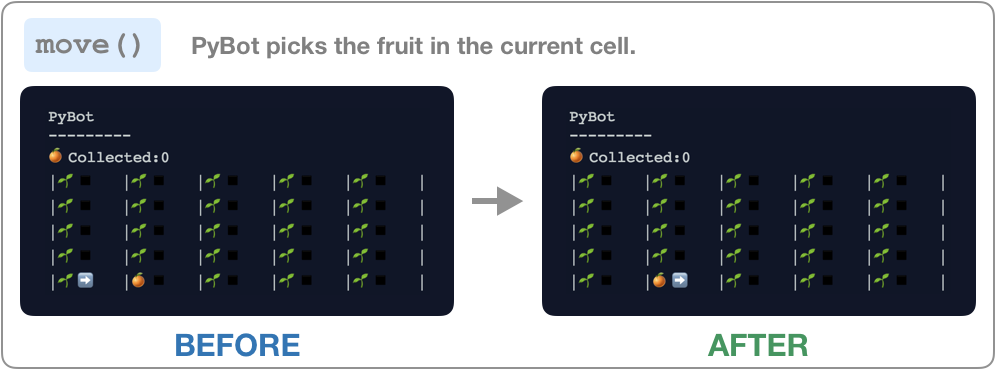
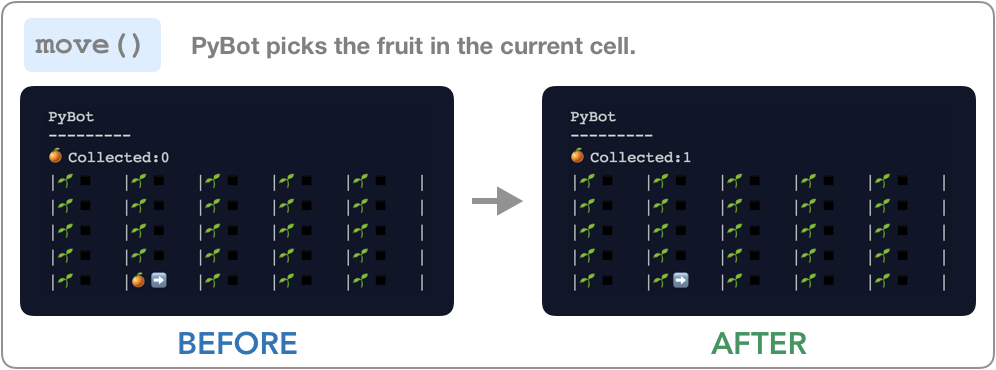
Finished functions

diff --git a/notes/pybot/pybot.md b/notes/pybot/pybot.md
@@ -29,8 +29,12 @@ PyBot was built to perform only a small set of actions: she can move in the dire
 ## PyBot Functions
 ### Commands
 **Commands**   We can program PyBot to perform a few simple actions by calling the following Python functions:
-here
-<img class="bio-pic" src="figures/fig_move.png" width="175%">
+
+<src="figures/fig_move.png" width="100%">
+
+<src="figures/fig_turn_right.png" width="100%">
+
+<src="figures/fig_pick_fruit.png" width="100%">
 
 1. `move()` - PyBot takes one step in the direction she is facing.
 2. `turn_right()` - PyBot turns herself 90 degrees to the right
